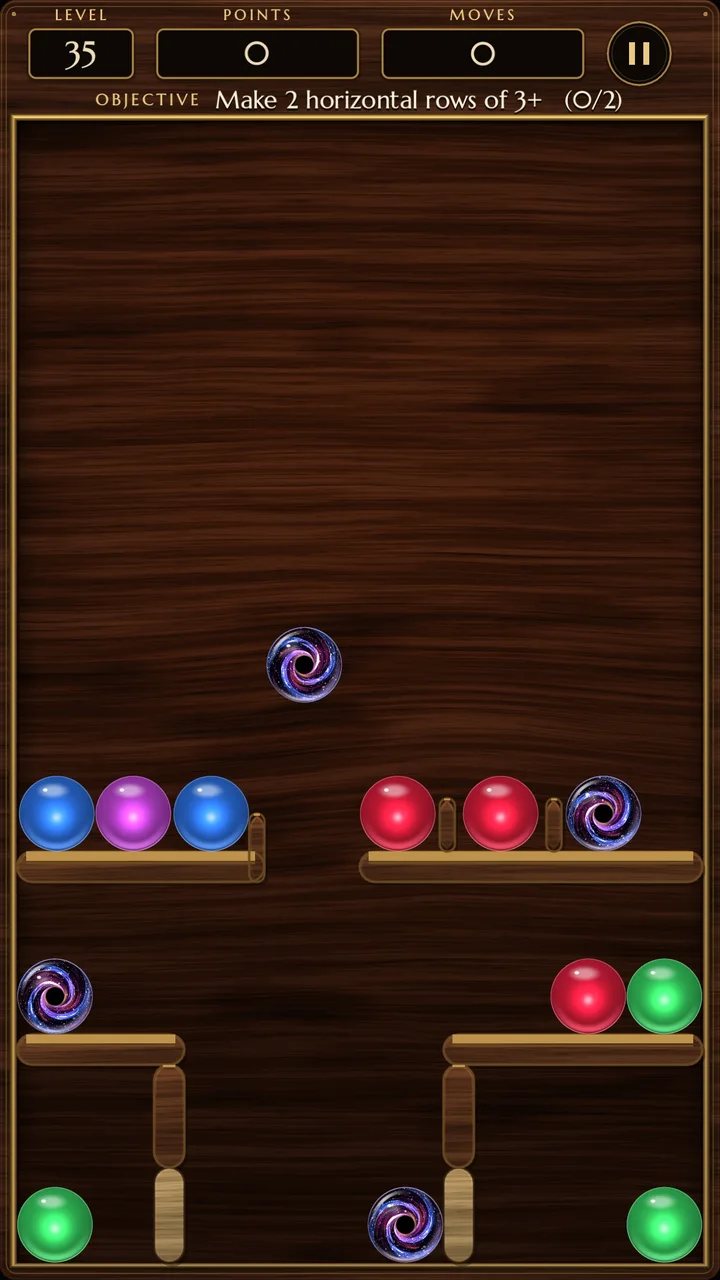
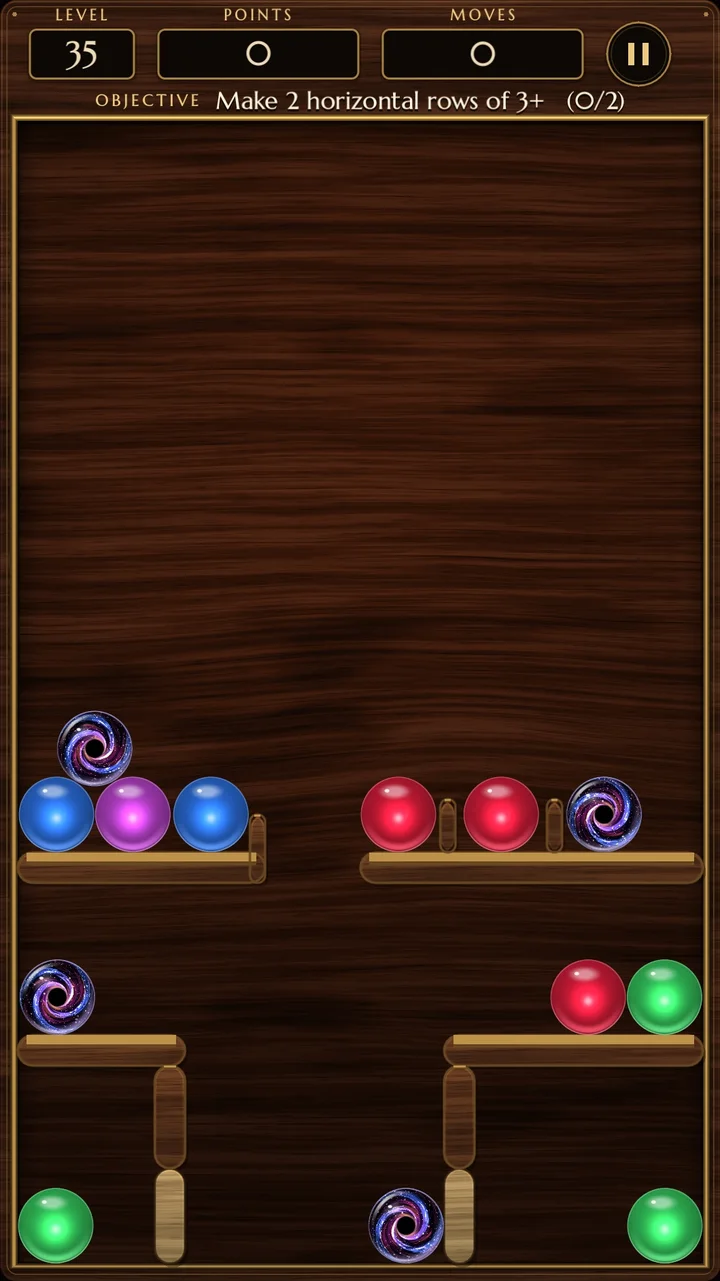
Post-launch tidy-up: new screenshots and current wording
- New level 35 screenshot in the hero; Store screenshot in Galaxy balls
- Galaxy balls note now says how they are earned, gifted and bought
- Remove 'Planned', 'In design' and 'Later' tags; obstacles are in the game
- Remove 'still in development' notes; rewarded ads are live and optional

Claude-Session: https://claude.ai/code/session_01Je6KFTDgnWY7eMugiGqykd

diff --git a/src/_includes/css/sections.css b/src/_includes/css/sections.css
@@ -403,3 +403,5 @@
 }
 .trailer__downloads { margin-top: 0.75rem; color: var(--ink-muted); }
 .trailer__downloads a { display: inline-block; min-height: 44px; line-height: 44px; margin-left: 0.35rem; }
+
+.galaxy__store { width: min(100%, 240px); margin-top: 1.75rem; }
